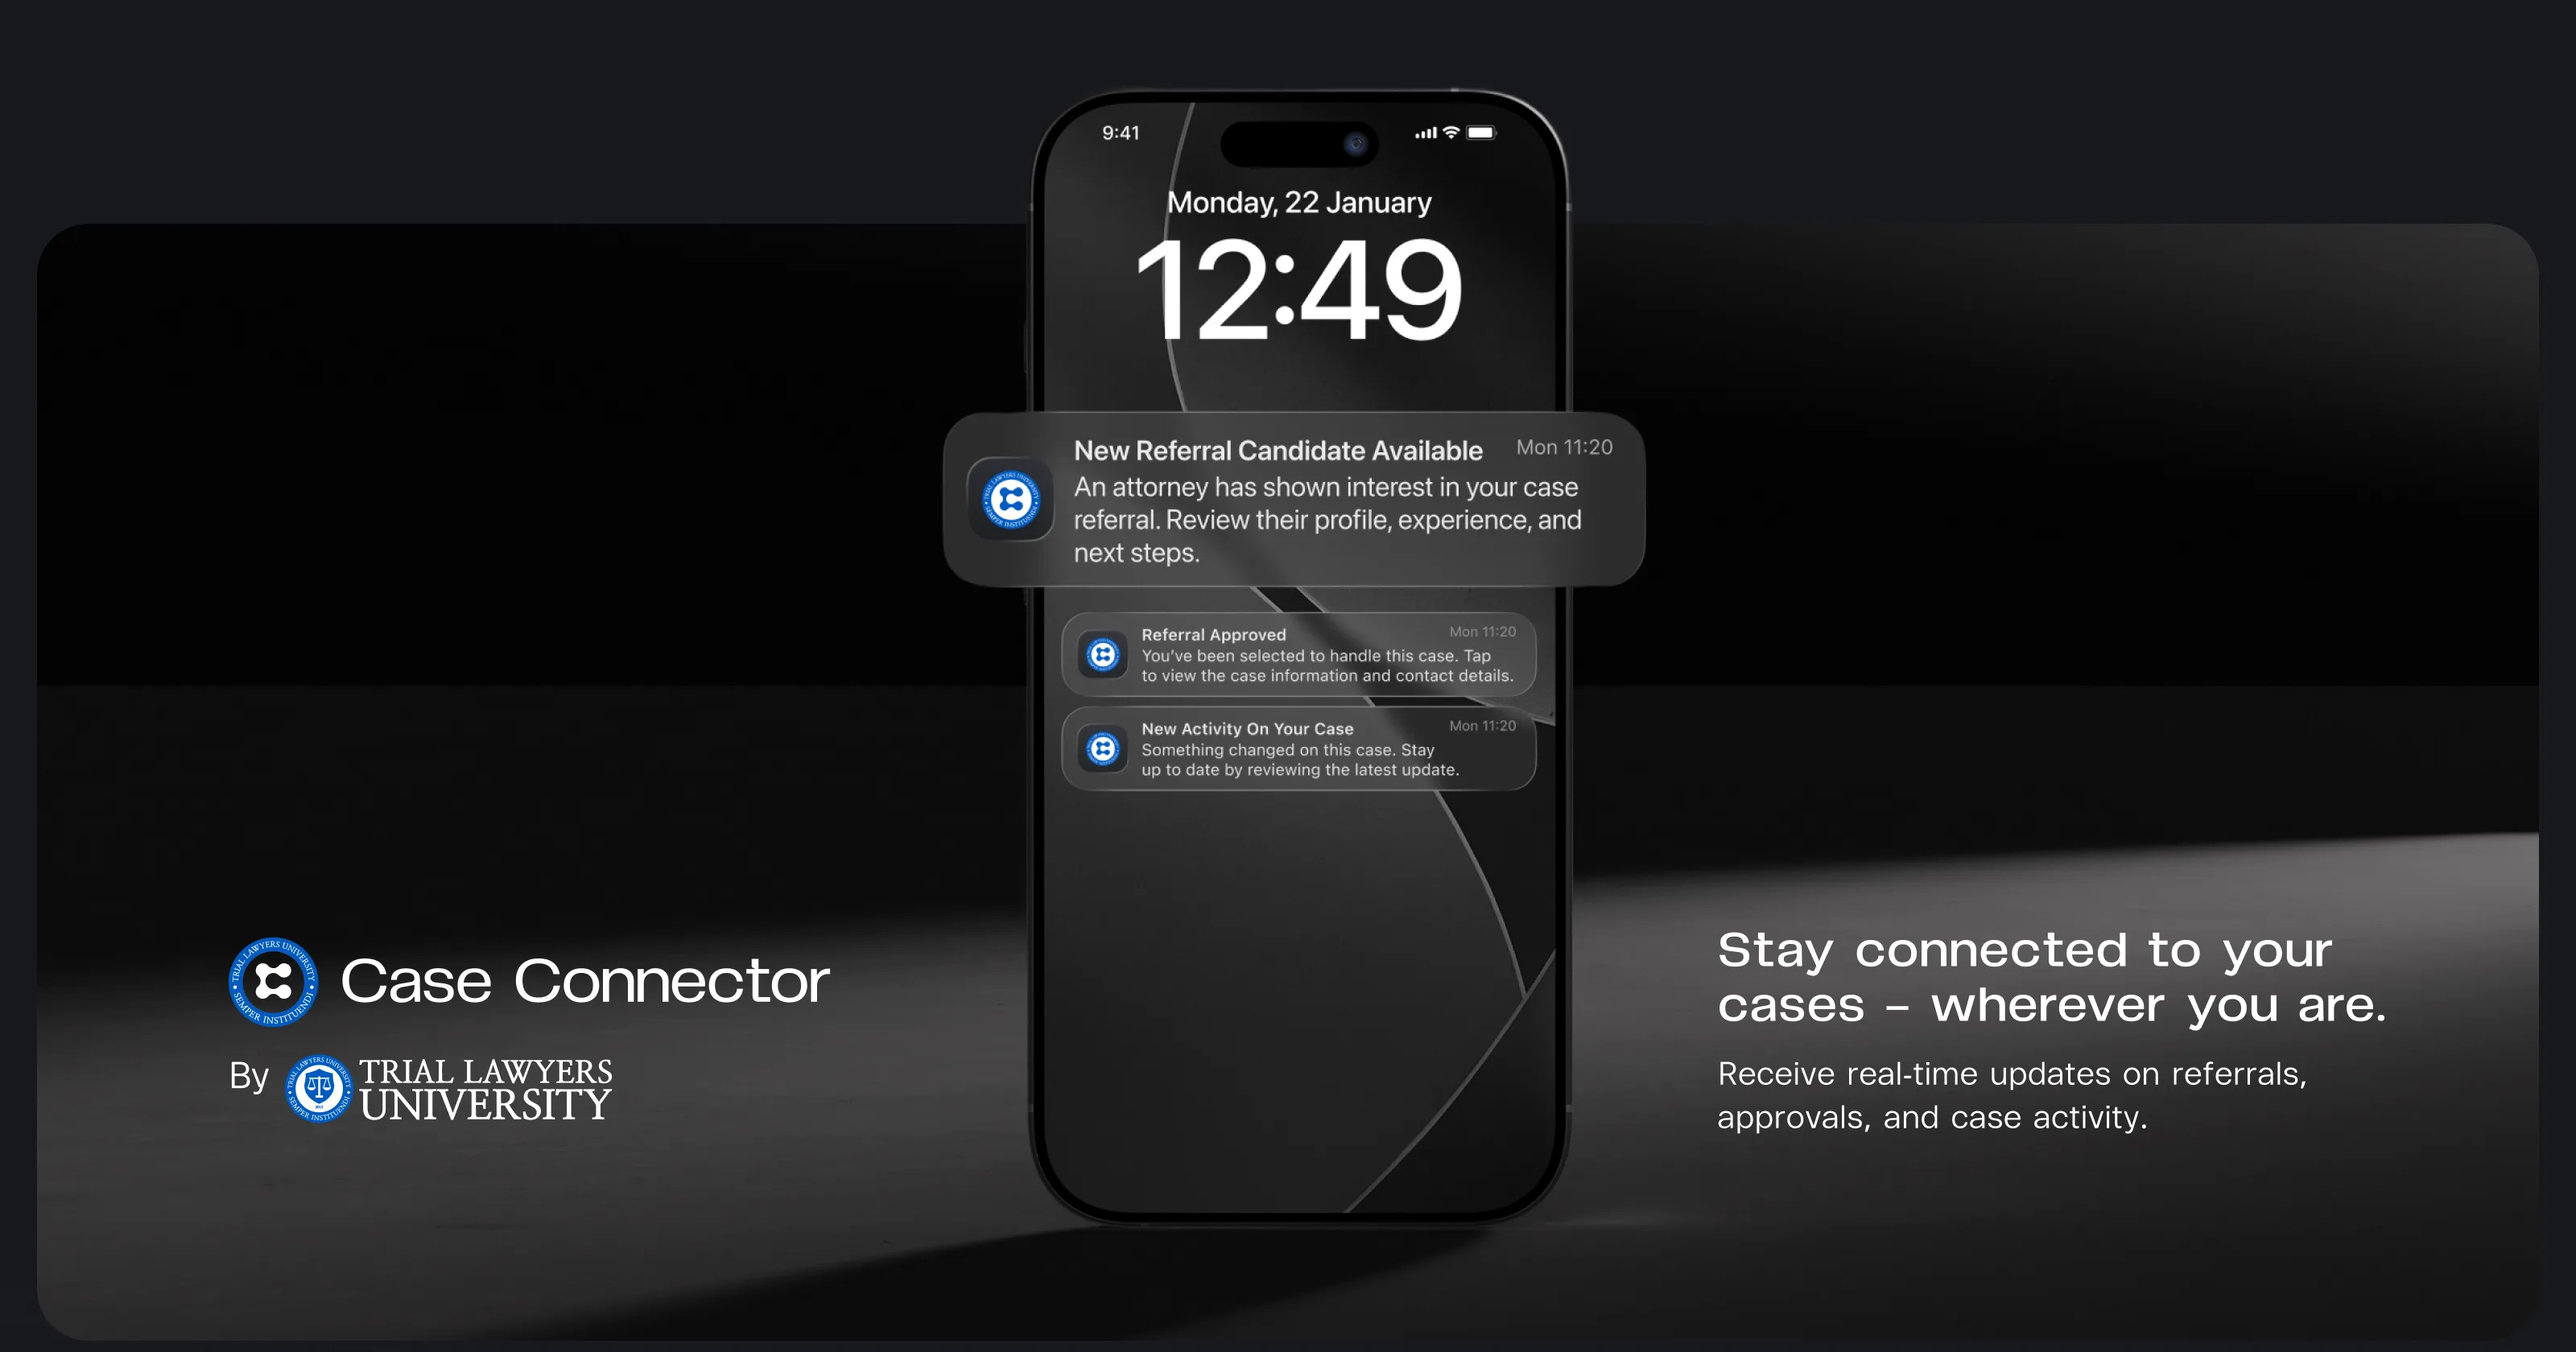
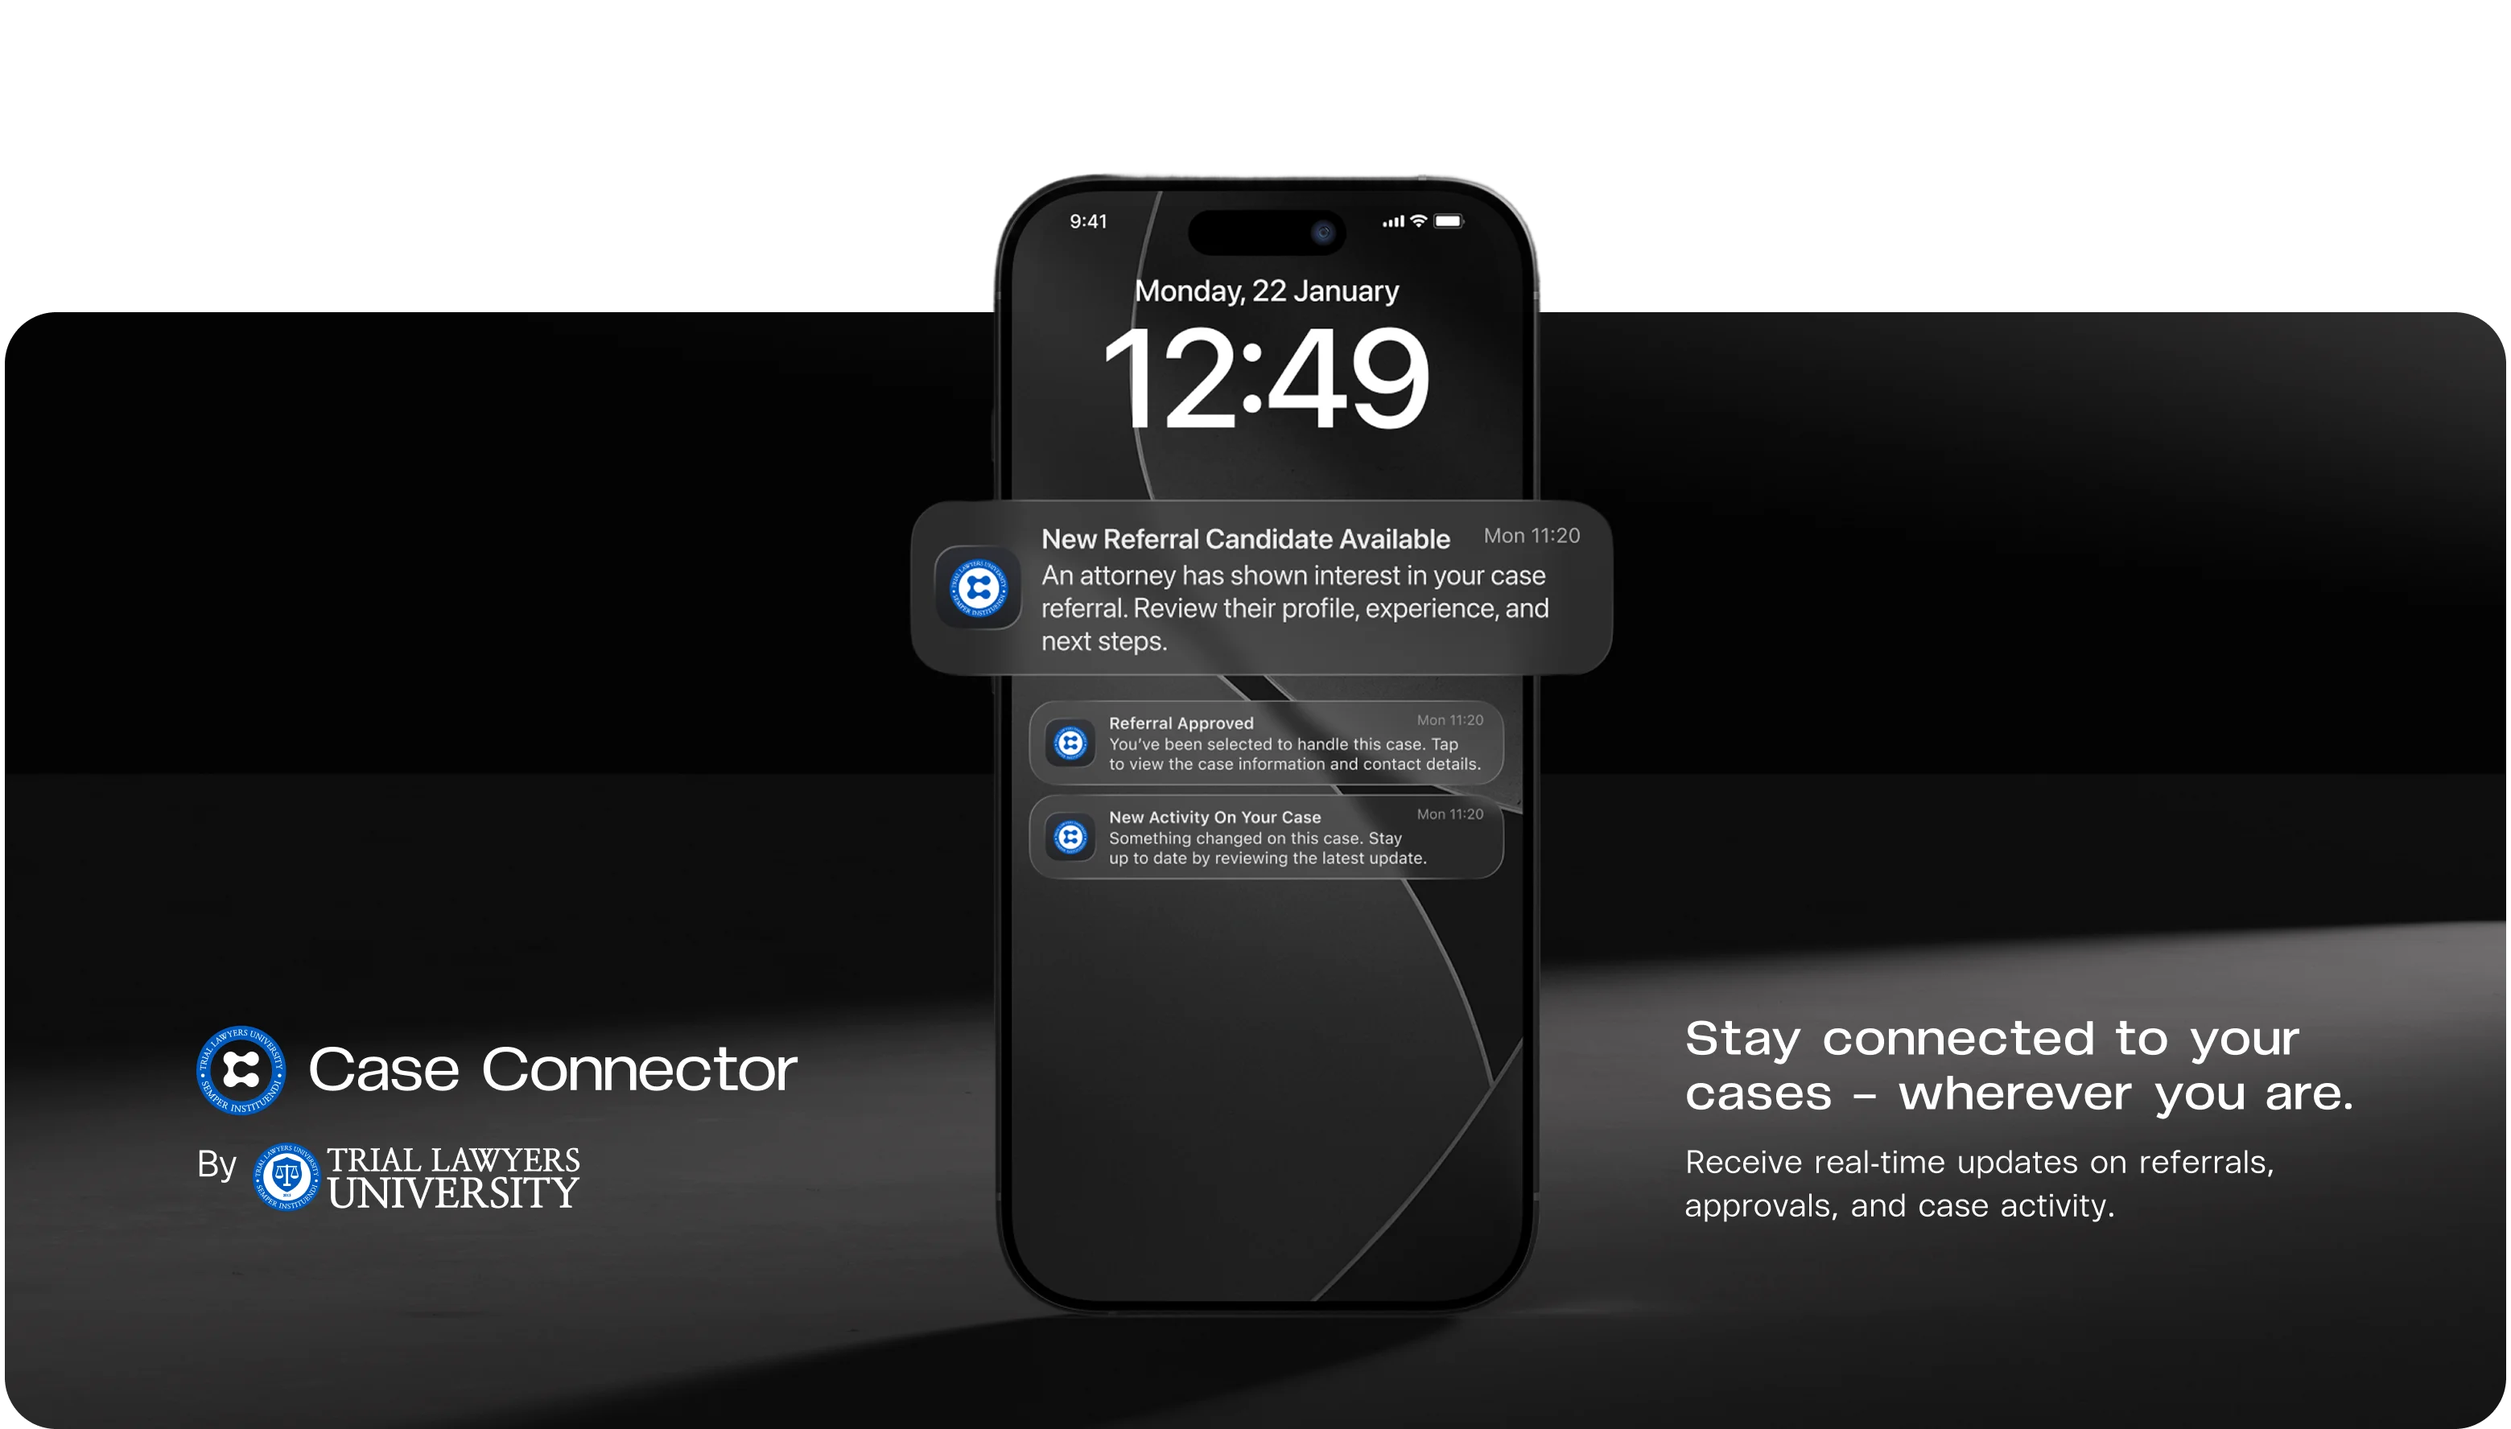
Replace the Case Connector lock screen image

diff --git a/app/case-connector/case-connector.css b/app/case-connector/case-connector.css
@@ -145,14 +145,19 @@ html:has(.cs) { background: #17181c; }
 .cs-goal p { font-size: 15px; line-height: 1.5; letter-spacing: 0.02em; color: var(--cs-muted); max-width: 280px; }
 
 /* ---------- Full-width design images ---------- */
-.cs-lockscreen,
 .cs-presentation img {
   width: 100%;
   max-width: 1600px;
   height: auto;
   margin: 0 auto;
 }
-.cs-lockscreen { margin-top: 80px; }
+/* Same width and side margins as the hero */
+.cs-lockscreen {
+  width: calc(100% - 40px);
+  max-width: 1560px;
+  height: auto;
+  margin: 80px auto 0;
+}
 
 .cs-scroll {
   max-width: 1600px;
@@ -466,7 +471,7 @@ html:has(.cs) { background: #17181c; }
   .cs-goals { grid-template-columns: 1fr; padding-top: 64px; }
   .cs-goal::before { right: 0; }
   .cs-goal p { max-width: none; }
-  .cs-lockscreen { margin-top: 56px; }
+  .cs-lockscreen { width: calc(100% - 32px); margin-top: 56px; }
 
   /* the sitemap keeps its size and scrolls sideways */
   .cs-scroll { overflow-x: auto; padding-inline: 16px; -webkit-overflow-scrolling: touch; }

diff --git a/app/case-connector/page.tsx b/app/case-connector/page.tsx
@@ -119,8 +119,8 @@ export default function CaseConnectorPage() {
         <img
           className="cs-lockscreen"
           src={`${A}/cc-lockscreen.webp`}
-          width={1600}
-          height={840}
+          width={1560}
+          height={888}
           loading="lazy"
           alt="Lock screen showing Case Connector notifications. Stay connected to your cases, wherever you are: receive real-time updates on referrals, approvals, and case activity."
         />
